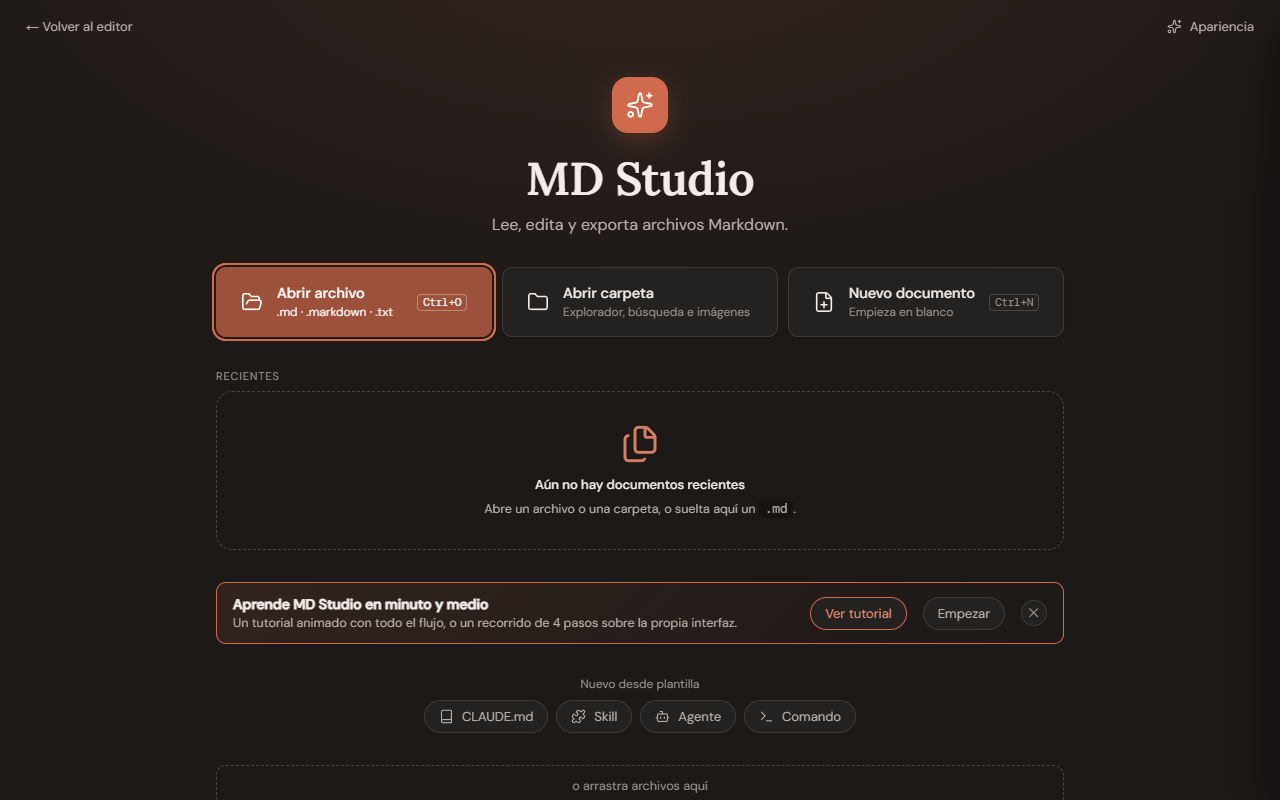
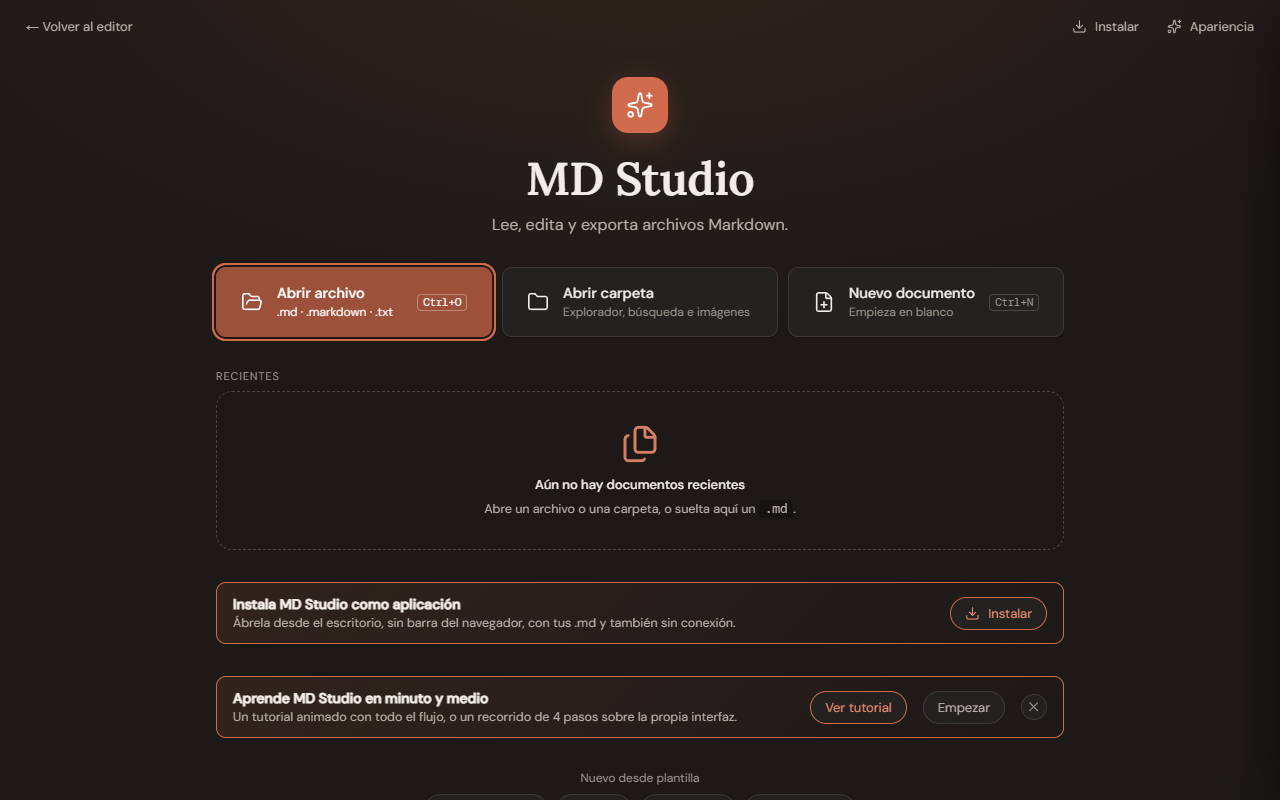
Botones de instalación PWA en inicio, barra superior, menú Archivo y paleta
Los botones se ven siempre salvo si la app ya está instalada. Si el
navegador no ofrece el aviso automático, se abre una guía por navegador.

diff --git a/app/index.html b/app/index.html
@@ -41,7 +41,10 @@
 <section class="home" id="home" aria-label="Inicio">
   <div class="home-top">
     <button class="home-link" id="homeBack" data-action="hideHome" title="Volver al editor (Esc)">← Volver al editor</button>
-    <button class="home-link" data-action="openSettings"><svg class="ic" aria-hidden="true"><use href="#i-sparkles"/></svg> Apariencia</button>
+    <span class="home-top-right">
+      <button class="home-link install-menu-item" data-action="installApp"><svg class="ic" aria-hidden="true"><use href="#i-download"/></svg> Instalar</button>
+      <button class="home-link" data-action="openSettings"><svg class="ic" aria-hidden="true"><use href="#i-sparkles"/></svg> Apariencia</button>
+    </span>
   </div>
 
   <div class="home-inner">
@@ -86,6 +89,14 @@
       </div>
     </div>
 
+    <div class="home-tour home-install install-menu-item" id="homeInstall">
+      <div>
+        <b>Instala MD Studio como aplicación</b>
+        <span>Ábrela desde el escritorio, sin barra del navegador, con tus .md y también sin conexión.</span>
+      </div>
+      <button class="home-pill accent" data-action="installApp"><svg class="ic" aria-hidden="true"><use href="#i-download"/></svg> Instalar</button>
+    </div>
+
     <div class="home-tour" id="homeTour" hidden>
       <div>
         <b>Aprende MD Studio en minuto y medio</b>
@@ -107,7 +118,7 @@
     <div class="home-drop">o arrastra archivos aquí</div>
 
     <footer class="home-foot">
-      <button class="home-pill accent" id="installBtn" data-action="installApp" hidden><svg class="ic" aria-hidden="true"><use href="#i-download"/></svg> Instalar como aplicación</button>
+      <button class="home-pill accent install-menu-item" id="installBtn" data-action="installApp"><svg class="ic" aria-hidden="true"><use href="#i-download"/></svg> Instalar como aplicación</button>
       <button class="home-pill" data-action="pasteAsNewTab"><svg class="ic" aria-hidden="true"><use href="#i-clipboard-paste"/></svg> Pegar Markdown</button>
       <button class="home-pill" data-action="startTutorial"><svg class="ic" aria-hidden="true"><use href="#i-clapperboard"/></svg> Tutorial animado</button>
       <button class="home-pill" data-action="startTour"><svg class="ic" aria-hidden="true"><use href="#i-info"/></svg> Recorrido</button>
@@ -128,7 +139,7 @@
     <button class="menu-btn" data-action="toggleMenu" data-args='[&quot;archivo&quot;]' aria-haspopup="menu" aria-expanded="false" aria-controls="dd-archivo">Archivo</button>
     <div class="menu-dd" id="dd-archivo" role="menu" aria-label="Archivo">
       <button role="menuitem" data-action="showHome"><svg class="ic" aria-hidden="true"><use href="#i-house"/></svg> Inicio</button>
-      <button role="menuitem" data-action="installApp" class="install-menu-item" hidden><svg class="ic" aria-hidden="true"><use href="#i-download"/></svg> Instalar como aplicación</button>
+      <button role="menuitem" data-action="installApp" class="install-menu-item"><svg class="ic" aria-hidden="true"><use href="#i-download"/></svg> Instalar como aplicación</button>
       <div class="menu-sep" role="separator"></div>
       <button role="menuitem" data-action="newTab"><svg class="ic" aria-hidden="true"><use href="#i-file-plus"/></svg> Nuevo <kbd>Ctrl+N</kbd></button>
       <button role="menuitem" data-action="openFile"><svg class="ic" aria-hidden="true"><use href="#i-folder-open"/></svg> Abrir archivo… <kbd>Ctrl+O</kbd></button>
@@ -217,6 +228,7 @@
       <button class="toggle-btn" data-action="setView" data-args='[&quot;editor&quot;]' id="v-editor" title="Solo editor" aria-label="Solo editor"><svg class="ic" aria-hidden="true"><use href="#i-pencil"/></svg></button>
       <button class="toggle-btn" data-action="setView" data-args='[&quot;preview&quot;]' id="v-preview" title="Solo vista previa" aria-label="Solo vista previa"><svg class="ic" aria-hidden="true"><use href="#i-eye"/></svg></button>
     </div>
+    <button class="menu-btn install-menu-item install-top" data-action="installApp" title="Instalar como aplicación" style="padding:0 12px;height:30px;border-radius:var(--radius);display:flex;align-items:center;gap:6px"><svg class="ic" aria-hidden="true"><use href="#i-download"/></svg> Instalar</button>
     <button class="menu-btn" data-action="openSettings" title="Apariencia" style="padding:0 12px;height:30px;border-radius:var(--radius);display:flex;align-items:center;gap:6px"><svg class="ic" aria-hidden="true"><use href="#i-sparkles"/></svg> Apariencia</button>
   </div>
 </nav>
@@ -644,6 +656,17 @@
       <button class="find-close" data-action="closeClaudeCheck" title="Cerrar">×</button>
     </div>
     <div class="stats-body" id="claudeBody"></div>
+  </div>
+</div>
+
+<!-- AYUDA PARA INSTALAR (cuando el navegador no ofrece el aviso automático) -->
+<div class="stats-overlay" id="installOverlay" data-overlay-close="closeInstallHelp">
+  <div class="stats-box" role="dialog" aria-modal="true" aria-labelledby="installTitle">
+    <div class="stats-head">
+      <h3 id="installTitle"><svg class="ic" aria-hidden="true"><use href="#i-download"/></svg> Instalar como aplicación</h3>
+      <button class="find-close" data-action="closeInstallHelp" aria-label="Cerrar">×</button>
+    </div>
+    <div class="stats-body install-help" id="installBody"></div>
   </div>
 </div>
 

diff --git a/app/src/pwa.js b/app/src/pwa.js
@@ -13,14 +13,19 @@ if ('serviceWorker' in navigator && location.protocol.startsWith('http')) {
   });
 }
 
-// Botón "Instalar como aplicación" (Chrome/Edge). Safari/iOS no emite este
-// evento: allí se instala con Compartir → Añadir a pantalla de inicio.
+// Botones «Instalar como aplicación» (inicio, barra superior, menú Archivo, paleta). Se ven siempre,
+// salvo si la app ya corre instalada. Si el navegador dio el aviso de instalación (Chrome/Edge) se
+// lanza directamente; si no (Safari, Firefox, o Chrome que aún no lo ofrece) se abre una guía por navegador.
 export let deferredInstallPrompt = null;
 
+export const isInstalled = () =>
+  (window.matchMedia && matchMedia('(display-mode: standalone), (display-mode: window-controls-overlay)').matches) ||
+  navigator.standalone === true;
+
 export function setInstallVisible(on) {
-  document.getElementById('installBtn').hidden = !on;
   document.querySelectorAll('.install-menu-item').forEach(el => { el.hidden = !on; });
 }
+setInstallVisible(!isInstalled());
 
 window.addEventListener('beforeinstallprompt', e => {
   e.preventDefault();
@@ -35,15 +40,38 @@ window.addEventListener('appinstalled', () => {
 });
 
 export async function installApp() {
-  if (!deferredInstallPrompt) {
-    showToast('Usa el menú del navegador → Instalar aplicación');
+  if (deferredInstallPrompt) {
+    deferredInstallPrompt.prompt();
+    const { outcome } = await deferredInstallPrompt.userChoice;
+    deferredInstallPrompt = null;
+    if (outcome === 'accepted') setInstallVisible(false);
     return;
   }
-  deferredInstallPrompt.prompt();
-  await deferredInstallPrompt.userChoice;
-  deferredInstallPrompt = null;
-  setInstallVisible(false);
+  openInstallHelp();
 }
+
+function installSteps() {
+  const ua = navigator.userAgent;
+  const ios = /iPhone|iPad|iPod/.test(ua) || (/Macintosh/.test(ua) && navigator.maxTouchPoints > 1);
+  if (ios) return { name: 'Safari (iPhone / iPad)', steps: ['Pulsa <b>Compartir</b> (el cuadrado con la flecha hacia arriba).', 'Elige <b>Añadir a pantalla de inicio</b>.', 'Confirma con <b>Añadir</b>.'] };
+  if (/Firefox\//.test(ua)) return { name: 'Firefox', steps: ['Firefox no permite instalar aplicaciones web en escritorio.', 'Abre MD Studio en <b>Chrome</b> o <b>Edge</b> para instalarla.', 'En Android, Firefox sí: menú ⋮ → <b>Instalar</b>.'] };
+  if (/Edg\//.test(ua)) return { name: 'Microsoft Edge', steps: ['Abre el menú <b>⋯</b> arriba a la derecha.', 'Ve a <b>Aplicaciones</b> → <b>Instalar este sitio como una aplicación</b>.', 'Confirma con <b>Instalar</b>.'] };
+  if (/Android/.test(ua)) return { name: 'Chrome (Android)', steps: ['Abre el menú <b>⋮</b>.', 'Pulsa <b>Instalar aplicación</b> (o <b>Añadir a pantalla de inicio</b>).', 'Confirma con <b>Instalar</b>.'] };
+  if (/Safari\//.test(ua) && !/Chrome\//.test(ua)) return { name: 'Safari (Mac)', steps: ['Menú <b>Archivo</b> → <b>Añadir al Dock…</b> (Safari 17 o posterior).', 'Confirma con <b>Añadir</b>.'] };
+  return { name: 'Chrome', steps: ['Busca el icono de <b>instalar</b> a la derecha de la barra de direcciones.', 'Si no aparece: menú <b>⋮</b> → <b>Guardar y compartir</b> → <b>Instalar MD Studio…</b>', 'Confirma con <b>Instalar</b>.'] };
+}
+
+export function openInstallHelp() {
+  const { name, steps } = installSteps();
+  const secure = window.isSecureContext && location.protocol.startsWith('http');
+  document.getElementById('installBody').innerHTML = secure
+    ? `<p>Tu navegador no ha ofrecido el aviso automático. Instálala a mano en <b>${name}</b>:</p>
+       <ol class="install-steps">${steps.map(t => `<li>${t}</li>`).join('')}</ol>
+       <p class="install-note">Una vez instalada se abre como una aplicación más, con tus archivos .md y también sin conexión.</p>`
+    : '<p>Para instalarla hay que abrir MD Studio desde una dirección <b>https://</b> (o <b>localhost</b>), no desde un archivo local.</p>';
+  document.getElementById('installOverlay').classList.add('open');
+}
+export function closeInstallHelp() { document.getElementById('installOverlay').classList.remove('open'); }
 
 // ── Recibir archivos desde "Compartir" (Android / ChromeOS) ──
 // El service worker guarda en la caché 'share-inbox' lo compartido hacia /share-target

diff --git a/app/src/dispatch.js b/app/src/dispatch.js
@@ -27,7 +27,7 @@ import { toggleReader } from './reader.js';
 import { dismissTour, startTour } from './tour.js';
 import { startTutorial } from './tutorial.js';
 import { hideHome, openExampleTab, pasteAsNewTab, showHome } from './home.js';
-import { installApp } from './pwa.js';
+import { closeInstallHelp, installApp } from './pwa.js';
 
 // ═══════════════════════════════════════════════════
 // DESPACHO DE EVENTOS DECLARATIVOS
@@ -41,7 +41,7 @@ export const ACTIONS = {
   // archivo / pestañas
   newTab, openFile, closeActiveTab, closeTab, saveFile, saveFileAs, downloadMD, copyMD,
   triggerImport, exportHTML, exportPDF, exportTXT, showExample, clearEditor,
-  showHome, hideHome, openExampleTab, pasteAsNewTab, clearRecents, installApp,
+  showHome, hideHome, openExampleTab, pasteAsNewTab, clearRecents, installApp, closeInstallHelp,
   openFolder, closeFolder, toggleFiles, showDiff, closeDiff, showClaudeCheck, closeClaudeCheck,
   newFromTemplate, saveFromDiff, conflictReload, conflictKeep, conflictDiff,
   // formato / insertar

diff --git a/app/src/commands.js b/app/src/commands.js
@@ -22,6 +22,7 @@ import { showDiff } from './diff.js';
 import { copyShareLink, exportDOCX, openExport } from './exportdlg.js';
 import { openHistory } from './versions.js';
 import { showClaudeCheck } from './claude.js';
+import { installApp, isInstalled } from './pwa.js';
 import { toggleReader } from './reader.js';
 import { startTour } from './tour.js';
 import { startTutorial } from './tutorial.js';
@@ -146,6 +147,7 @@ export function buildCommands() {
     { group:'Archivo', icon:'🏠', name:'Ir a la pantalla de inicio', run:showHome },
     { group:'Ayuda', icon:'▶', name:'Tutorial animado (vídeo)', run:startTutorial },
     { group:'Ayuda', icon:'ℹ', name:'Recorrido guiado', run:startTour },
+    ...(isInstalled() ? [] : [{ group:'Ayuda', icon:'⬇', name:'Instalar como aplicación', run:installApp }]),
     { group:'Archivo', icon:'⇄', name:'Ver cambios sin guardar', run:()=>showDiff() },
     { group:'Archivo', icon:'↺', name:'Historial de versiones', run:openHistory },
     { group:'Claude', icon:'✓', name:'Comprobar archivo de Claude (skill, agente, CLAUDE.md…)', run:showClaudeCheck },

diff --git a/app/src/a11y.js b/app/src/a11y.js
@@ -9,6 +9,7 @@ import { closeDiff } from './diff.js';
 import { closeExport } from './exportdlg.js';
 import { closeHistory } from './versions.js';
 import { closeClaudeCheck } from './claude.js';
+import { closeInstallHelp } from './pwa.js';
 
 // ═══════════════════════════════════════════════════
 // ACCESIBILIDAD: foco en diálogos, menús con teclado, nombres de botones, pestañas
@@ -42,6 +43,7 @@ export const DIALOGS = [
   { el: '#histOverlay', close: () => closeHistory() },
   { el: '#backOverlay', close: () => closeBacklinks() },
   { el: '#exportOverlay', close: () => closeExport() },
+  { el: '#installOverlay', close: () => closeInstallHelp() },
 ];
 export const dlgState = new Map();   // elemento → foco anterior
 export const inertBg = new Map();    // elemento → fondo que se volvió inerte

diff --git a/app/css/home.css b/app/css/home.css
@@ -265,3 +265,10 @@ body.home-open .zen-exit { display: none; }
 @media (max-width: 560px) { .home-tour { flex-wrap: wrap; } }
 .home-drop { padding: var(--sp-3); font-size: var(--fs-sm); }
 .home-actions { grid-template-columns: repeat(auto-fit, minmax(240px, 1fr)); }
+
+/* Instalación (PWA) */
+.home-install .home-pill { flex: none; }
+.install-help p { margin: 0 0 var(--sp-3); }
+.install-steps { margin: 0 0 var(--sp-3); padding-left: 1.4em; display: flex; flex-direction: column; gap: 6px; }
+.install-note { color: var(--text-secondary); font-size: var(--fs-sm); }
+.home-top-right { display: flex; align-items: center; gap: var(--sp-2); }

diff --git a/app/sw-manifest.js b/app/sw-manifest.js
@@ -1,5 +1,5 @@
 // Generado por tools/build.mjs — no editar
-self.__VERSION__ = '2d4b968832';
+self.__VERSION__ = '76dccc3418';
 self.__SHELL__ = [
  "./",
  "boot-guard.js",
